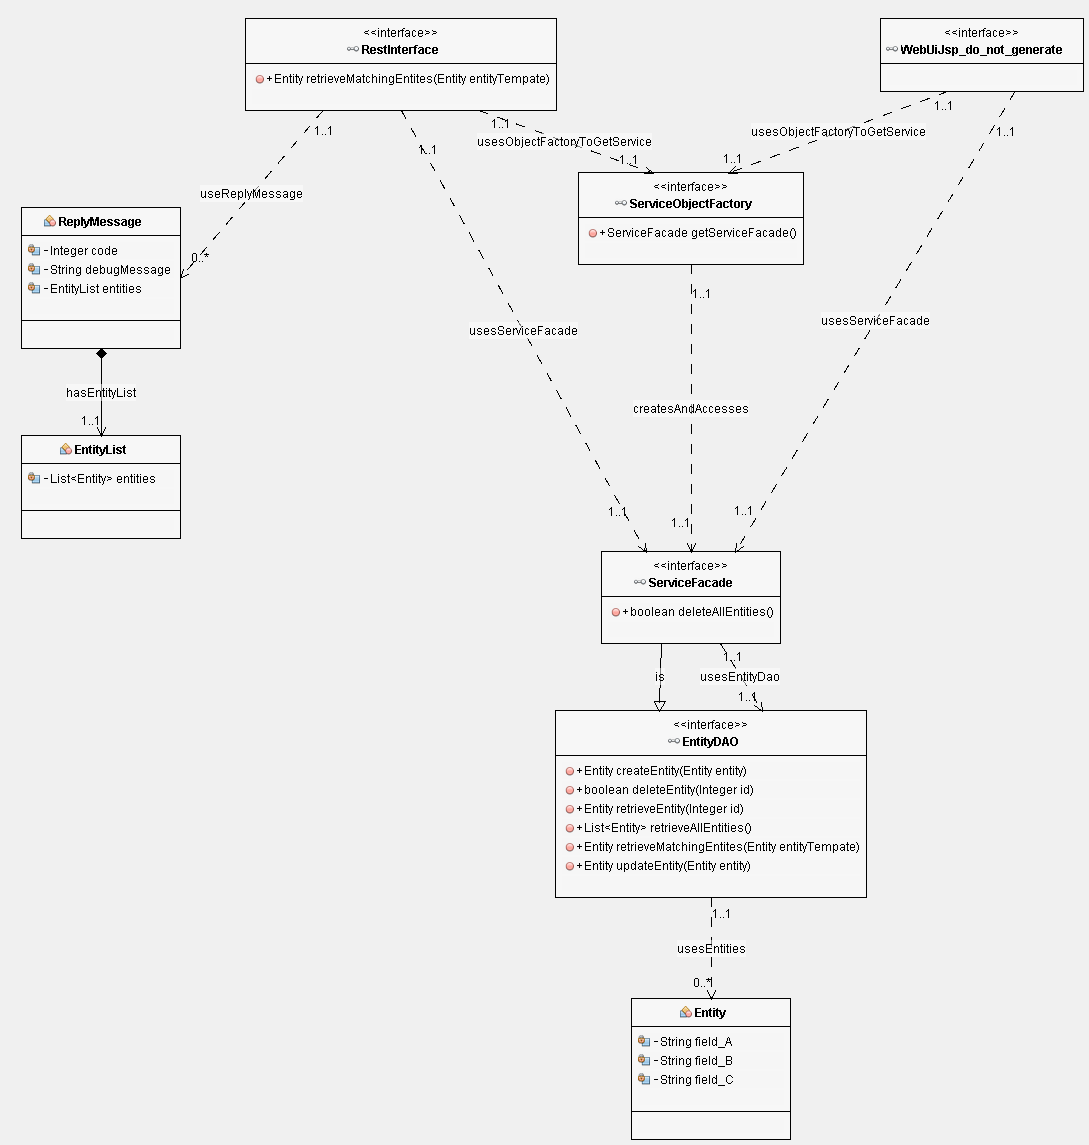
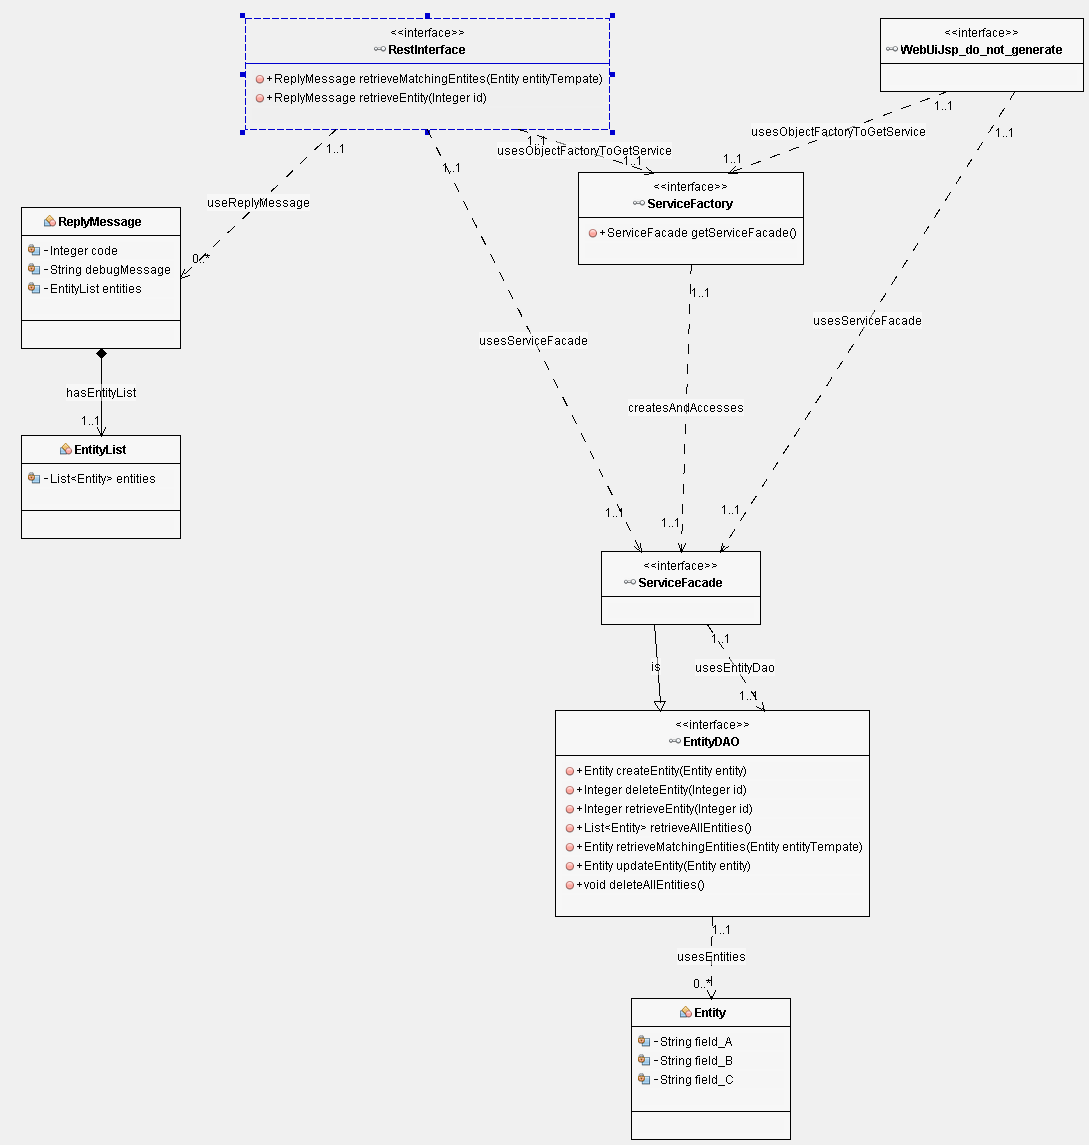
started rest client

diff --git a/workup/exampleproject-parent/rest-client/src/main/java/solent/ac/uk/ood/examples/exampleproject/web/rest/client/RestClientJerseyImpl.java b/workup/exampleproject-parent/rest-client/src/main/java/solent/ac/uk/ood/examples/exampleproject/web/rest/client/RestClientJerseyImpl.java
@@ -1,0 +1,28 @@
+/*
+ * To change this license header, choose License Headers in Project Properties.
+ * To change this template file, choose Tools | Templates
+ * and open the template in the editor.
+ */
+package solent.ac.uk.ood.examples.exampleproject.web.rest.client;
+
+import solent.ac.uk.ood.examples.exampleproject.model.Entity;
+import solent.ac.uk.ood.examples.exampleproject.model.ReplyMessage;
+import solent.ac.uk.ood.examples.exampleproject.model.RestInterface;
+
+/**
+ *
+ * @author cgallen
+ */
+public class RestClientJerseyImpl implements RestInterface {
+
+    @Override
+    public ReplyMessage retrieveMatchingEntites(Entity entityTempate) {
+        throw new UnsupportedOperationException("Not supported yet."); //To change body of generated methods, choose Tools | Templates.
+    }
+    
+    @Override
+    public ReplyMessage retrieveEntity(Integer id) {
+        throw new UnsupportedOperationException("Not supported yet."); //To change body of generated methods, choose Tools | Templates.
+    }
+    
+}

diff --git a/workup/exampleproject-parent/rest-client/src/test/java/solent/ac/uk/ood/examples/exampleproject/web/rest/client/test/manual/RestClientJerseyImplTest.java b/workup/exampleproject-parent/rest-client/src/test/java/solent/ac/uk/ood/examples/exampleproject/web/rest/client/test/manual/RestClientJerseyImplTest.java
@@ -1,0 +1,21 @@
+/*
+ * To change this license header, choose License Headers in Project Properties.
+ * To change this template file, choose Tools | Templates
+ * and open the template in the editor.
+ */
+package solent.ac.uk.ood.examples.exampleproject.web.rest.client.test.manual;
+
+import org.junit.Test;
+import static org.junit.Assert.*;
+
+/**
+ *
+ * @author cgallen
+ */
+public class RestClientJerseyImplTest {
+
+    @Test
+    public void restClientTest() {
+//TODO
+    }
+}

diff --git a/workup/exampleproject-parent/model/src/main/java/solent/ac/uk/ood/examples/exampleproject/model/RestInterface.java b/workup/exampleproject-parent/model/src/main/java/solent/ac/uk/ood/examples/exampleproject/model/RestInterface.java
@@ -4,4 +4,6 @@ public interface RestInterface {
 
     public ReplyMessage retrieveMatchingEntites(Entity entityTempate);
     
+    public ReplyMessage retrieveEntity(Integer id);
+    
 }

diff --git a/workup/exampleproject-parent/rest-client/README.md b/workup/exampleproject-parent/rest-client/README.md
@@ -1,0 +1,14 @@
+## Rest Client
+
+
+Two rest endpoints are provided in the example.
+
+```
+retreive allows you to retreive a specific entity
+
+GET http://localhost:8680/rest/example/retrieve
+
+retrievematching allows you to search for an entity using a template
+
+POST http://localhost:8680/rest/example/retrievematching
+```
